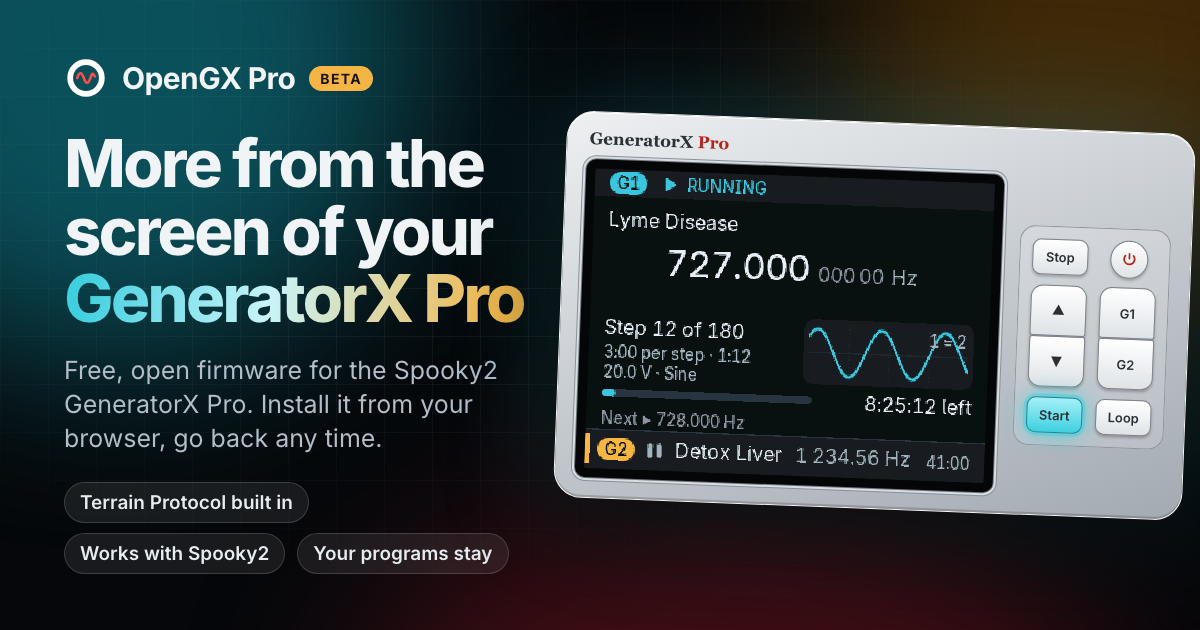
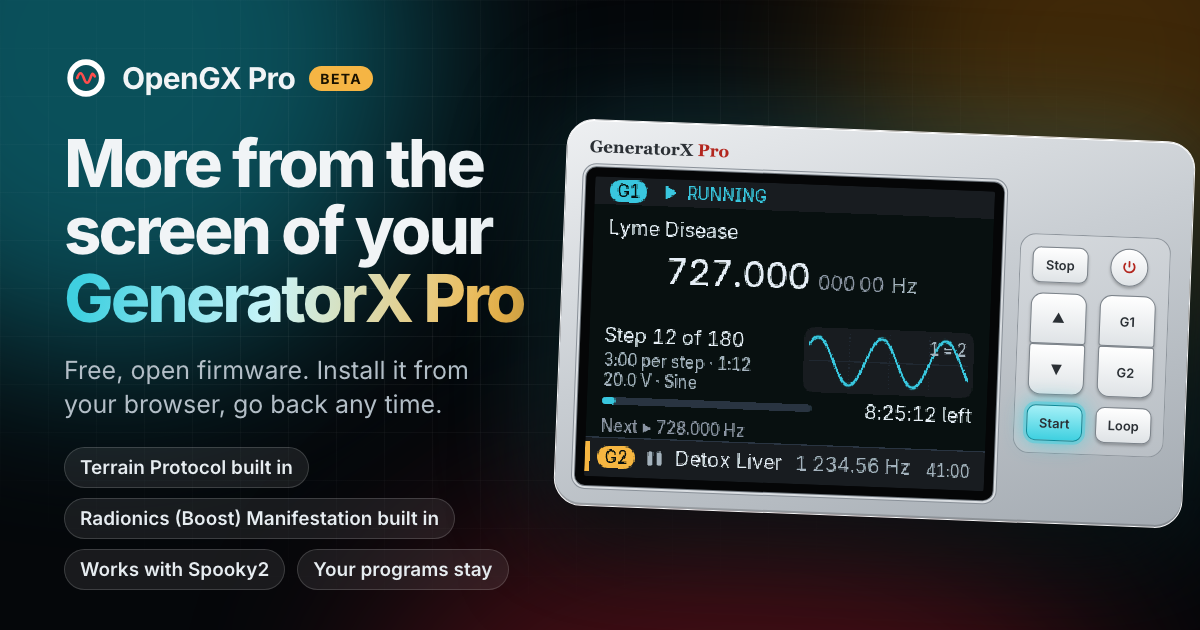
site: "Radionics (Boost) Manifestation" by name, with its own section
The built-in preset was mentioned in passing under the Terrain Protocol. It is now named
in the opening lines, comes third in the rotating features, has its own section with its
two screens, a walk-through in "How to use it", and stands in the share texts and the
share picture.

diff --git a/site/src/components/HomePanel.vue b/site/src/components/HomePanel.vue
@@ -36,8 +36,8 @@ const strip = gallery.flatMap((g) => g.shots).filter((_, i) => i % 3 === 0)
       <a class="pill" href="#/docs/known-issues"><b>Beta 0.9.0</b><span>free and open source</span><i aria-hidden="true">→</i></a>
       <h1>More from the screen of your <span class="grad">GeneratorX Pro</span></h1>
       <p class="hero-lead">OpenGX Pro is free software for the screen and keys of the Spooky2 GeneratorX Pro. It shows more,
-        does more without a computer (the Terrain Protocol is built in), and answers Spooky2 ten times faster. Your programs
-        stay, and you can go back to the original whenever you like.</p>
+        does more without a computer (the Terrain Protocol and “Radionics (Boost) Manifestation” are built in), and
+        answers Spooky2 ten times faster. Your programs stay, and you can go back to the original whenever you like.</p>
       <p class="hero-cta">
         <a class="btn primary big" href="#/install">Install{{ latest ? ` ${latest.version}` : '' }} <span class="sub">3 steps, about 5 minutes</span></a>
         <a class="btn ghost big" href="#/compare">What is different?</a>
@@ -99,7 +99,7 @@ const strip = gallery.flatMap((g) => g.shots).filter((_, i) => i % 3 === 0)
         <p>Set a frequency or a sweep with the keys and play it at once. No computer.</p>
       </article>
       <article class="tile" v-reveal="120">
-        <img :src="screen('chains')" alt="Chains and plans" width="320" height="240" loading="lazy" />
+        <img :src="screen('chains')" alt="The list of chains, below the built-in programs" width="320" height="240" loading="lazy" />
         <h3>Programs in a row</h3>
         <p>Chains play programs one after the other. A plan gives every day its chain.</p>
       </article>
@@ -160,15 +160,33 @@ const strip = gallery.flatMap((g) => g.shots).filter((_, i) => i % 3 === 0)
           <li><b>All three flavours:</b> Terrain, Terrain-Mercury and Terrain-Nonviolent, each as Remote and as Contact sets.</li>
           <li><b>It keeps count:</b> the screen shows the day, for example “Day 6/11”, and tells you when a set is finished.</li>
           <li><b>It goes on where it stopped,</b> also after switching off or a power cut.</li>
-          <li><b>A preset with sweeps too:</b> “Radionics (Boost) Manifestation” is built in. Programs uploaded from
-            Spooky2 cannot sweep; this one does.</li>
         </ul>
-        <p class="muted">The frequencies and times of both are taken from Spooky2's presets.</p>
+        <p class="muted">The frequencies, times and names are taken from Spooky2's presets.</p>
       </div>
       <div class="terrain-shots" v-reveal="120">
         <figure><img :src="screen('chains_terrain')" alt="Terrain first in the list of chains" width="320" height="240" loading="lazy" /><figcaption>First in the list</figcaption></figure>
         <figure><img :src="screen('terrain_contact')" alt="Terrain, Contact, day 3 of 11" width="320" height="240" loading="lazy" /><figcaption>Day 3 of 11, session 2 of 2</figcaption></figure>
         <figure><img :src="screen('dash_terrain')" alt="Terrain running" width="320" height="240" loading="lazy" /><figcaption>Running: “Day 6/11”</figcaption></figure>
+      </div>
+    </div>
+    <div class="wrap terrain-grid flip">
+      <div v-reveal>
+        <span class="eyebrow">Built in</span>
+        <h2>“Radionics (Boost) Manifestation” plays without a computer</h2>
+        <p class="lead">Spooky2's preset is in the unit, with its sweeps. Open Menu → Chains, go down to its row below the
+          Terrain Protocol and press START.</p>
+        <ul>
+          <li><b>With its sweeps:</b> 18 steps of 11 seconds. The frequency on the screen follows each sweep.</li>
+          <li><b>It repeats until you stop it.</b> START pauses and plays on; a sweep goes on where it was.</li>
+          <li><b>On G1 or G2:</b> choose the generator before you start.</li>
+          <li><b>Why it is built in:</b> programs uploaded from Spooky2 cannot sweep. This one does.</li>
+        </ul>
+        <p class="muted">Taken from Spooky2's preset of that name. It is new and still to be confirmed on real units:
+          <a :href="FEEDBACK_URL" target="_blank" rel="noopener">tell us</a> how it plays on yours.</p>
+      </div>
+      <div class="terrain-shots two" v-reveal="120">
+        <figure><img :src="screen('chains_preset')" alt="Radionics (Boost) Manifestation in the list, below the Terrain Protocol" width="320" height="240" loading="lazy" /><figcaption>Below the Terrain Protocol</figcaption></figure>
+        <figure><img :src="screen('dash_preset')" alt="Radionics (Boost) Manifestation playing a sweep" width="320" height="240" loading="lazy" /><figcaption>In a sweep: step 4 of 18</figcaption></figure>
       </div>
     </div>
   </section>
@@ -235,7 +253,7 @@ const strip = gallery.flatMap((g) => g.shots).filter((_, i) => i % 3 === 0)
         <li><b>Install</b> and look at the start screen: does it say OpenGX Pro?</li>
         <li><b>Play a stored program</b> on G1 and one on G2.</li>
         <li><b>Connect Spooky2</b> and run a preset as you always do.</li>
-        <li><b>Try something new:</b> the Terrain Protocol, the manual generator, a chain.</li>
+        <li><b>Try something new:</b> the Terrain Protocol, “Radionics (Boost) Manifestation”, the manual generator, a chain.</li>
         <li><b>Go back</b> to the original once, so you know the way.</li>
       </ol>
     </div>

diff --git a/site/index.html b/site/index.html
@@ -4,7 +4,7 @@
     <meta charset="UTF-8" />
     <meta name="viewport" content="width=device-width, initial-scale=1.0" />
     <title>OpenGX Pro: free, open firmware for the Spooky2 GeneratorX Pro</title>
-    <meta name="description" content="More from the screen of your GeneratorX Pro: see what is playing, run programs, chains and the Terrain Protocol without a computer, and keep using Spooky2 as before. Free and open source. Install it from your browser, go back to the original any time." />
+    <meta name="description" content="More from the screen of your GeneratorX Pro: see what is playing, run programs, chains, the Terrain Protocol and Radionics (Boost) Manifestation without a computer, and keep using Spooky2 as before. Free and open source. Install it from your browser, go back to the original any time." />
     <link rel="canonical" href="https://polobase.github.io/opengx-pro/" />
     <meta name="color-scheme" content="light dark" />
     <meta name="theme-color" content="#05070a" />
@@ -16,7 +16,7 @@
     <meta property="og:site_name" content="OpenGX Pro" />
     <meta property="og:url" content="https://polobase.github.io/opengx-pro/" />
     <meta property="og:title" content="OpenGX Pro: more from the screen of your GeneratorX Pro" />
-    <meta property="og:description" content="Free, open firmware for the Spooky2 GeneratorX Pro. Terrain Protocol built in, works with Spooky2 as before, your programs stay. Install it from your browser, go back any time. Beta testers welcome." />
+    <meta property="og:description" content="Free, open firmware for the Spooky2 GeneratorX Pro. Terrain Protocol and Radionics (Boost) Manifestation built in, works with Spooky2 as before, your programs stay. Install it from your browser, go back any time. Beta testers welcome." />
     <meta property="og:image" content="https://polobase.github.io/opengx-pro/og.png" />
     <meta property="og:image:type" content="image/png" />
     <meta property="og:image:width" content="1200" />
@@ -25,7 +25,7 @@
     <meta property="og:locale" content="en_GB" />
     <meta name="twitter:card" content="summary_large_image" />
     <meta name="twitter:title" content="OpenGX Pro: more from the screen of your GeneratorX Pro" />
-    <meta name="twitter:description" content="Free, open firmware for the Spooky2 GeneratorX Pro. Terrain Protocol built in, works with Spooky2 as before. Install from your browser, go back any time." />
+    <meta name="twitter:description" content="Free, open firmware for the Spooky2 GeneratorX Pro. Terrain Protocol and Radionics (Boost) Manifestation built in. Works with Spooky2 as before." />
     <meta name="twitter:image" content="https://polobase.github.io/opengx-pro/og.png" />
 
     <script type="application/ld+json">

diff --git a/site/src/components/HeroShowcase.vue b/site/src/components/HeroShowcase.vue
@@ -6,14 +6,14 @@ import UnitMock from './UnitMock.vue'
 /** What the firmware can do, one thing at a time, each with its real screen. Rotates by itself; a click chooses. */
 const features = [
   { id: 'now', title: 'See what is playing', text: 'The frequency, step 12 of 180, the time left, the next frequency and the waveform: all on one screen.', shot: 'dash_running', keys: ['START'] },
+  { id: 'terrain', title: 'Terrain Protocol built in', text: 'Start it on the unit: it runs the sets by itself, counts the days and goes on where it stopped.', shot: 'dash_terrain', keys: ['START'] },
+  { id: 'preset', title: 'Radionics (Boost) Manifestation built in', text: 'Spooky2’s preset plays on the unit alone, with its sweeps. No computer needed.', shot: 'dash_preset', keys: ['START'] },
   { id: 'menu', title: 'A menu on the unit', text: 'Programs, chains, the manual generator, timers and settings. Press DOWN.', shot: 'menu', keys: ['DOWN'] },
   { id: 'manual', title: 'Set a frequency by hand', text: 'The manual generator plays a frequency or a sweep at once. No computer needed.', shot: 'manual_sweep', keys: ['G1', 'G2'] },
   { id: 'chains', title: 'Programs in a row', text: 'Chains play several programs one after the other. Plans give every day its chain.', shot: 'chains', keys: ['START', 'LOOP'] },
   { id: 'resume', title: 'Picks up after a power cut', text: 'The unit remembers where it was and offers to go on.', shot: 'resume_offer', keys: ['START', 'STOP'] },
   { id: 'pc', title: 'Spooky2, in view', text: 'In PC mode the screen shows what Spooky2 plays on every output, and answers it ten times faster.', shot: 'pc_monitor_info', keys: [] },
   { id: 'night', title: 'Easy on the eyes', text: 'Themes and brightness. The screen dims by itself; the night view keeps both generators in sight.', shot: 'night_view', keys: ['UP'] },
-  { id: 'terrain', title: 'Terrain Protocol built in', text: 'Start it on the unit: it runs the sets by itself, counts the days and goes on where it stopped.', shot: 'dash_terrain', keys: ['START'] },
-  { id: 'preset', title: 'A preset with sweeps, without a PC', text: 'Spooky2’s “Radionics (Boost) Manifestation” is built in and plays with its sweeps on the unit alone.', shot: 'dash_preset', keys: ['START'] },
 ]
 const STEP_MS = 5200
 

diff --git a/site/src/lib/howto.ts b/site/src/lib/howto.ts
@@ -99,6 +99,18 @@ export const topics: Topic[] = [
     ],
   },
   {
+    id: 'radionics',
+    title: 'Radionics (Boost) Manifestation',
+    steps: [
+      { keys: ['DOWN'], shot: 'chains_terrain', does: 'Menu, then Chains', see: 'The built-in programs stand first: the six rows of the Terrain Protocol, then “Radionics (Boost) Manifestation”.' },
+      { keys: ['DOWN'], shot: 'chains_preset', does: '▼ down to its row', see: 'It is the row below the Terrain Protocol.' },
+      { keys: ['G1', 'G2'], shot: 'chains_preset', does: 'G1 or G2 choose the generator', see: 'The badge at the top right shows where it will play.' },
+      { keys: ['START'], shot: 'dash_preset', does: 'Press Start', see: 'After about two seconds it plays. The frequency follows the sweep, and the screen shows the step, here “Step 4 of 18”.' },
+      { keys: ['START'], shot: 'dash_preset', does: 'Start pauses and plays on', see: 'A sweep goes on where it was. The preset repeats until you stop it.' },
+      { keys: ['STOP'], shot: 'dash_preset', does: 'Stop ends it', see: 'After that, Start plays it once from the start, and Loop plays it with repeat.' },
+    ],
+  },
+  {
     id: 'timers',
     title: 'Timers and power cuts',
     steps: [

diff --git a/site/src/lib/matrix.ts b/site/src/lib/matrix.ts
@@ -75,7 +75,7 @@ export const groups: Group[] = [
       { feature: 'Switch off when all programs have finished', original: false, ours: true },
       { feature: 'Start the last programs at power-on', original: false, ours: true },
       { feature: 'Terrain Protocol built in', note: 'Terrain, Terrain-Mercury and Terrain-Nonviolent, as Remote and as Contact sets. The unit counts the days and goes on where it stopped.', original: false, ours: true, glance: true },
-      { feature: 'A Spooky2 preset with sweeps built in', note: '“Radionics (Boost) Manifestation”. Programs uploaded from Spooky2 cannot sweep; this one can.', original: false, ours: true, glance: true },
+      { feature: '“Radionics (Boost) Manifestation” built in', note: 'Spooky2’s preset, with its sweeps, without a PC. Programs uploaded from Spooky2 cannot sweep; this one can.', original: false, ours: true, glance: true },
       { feature: 'Resume after a power cut', note: 'The unit offers to continue where it stopped.', original: false, ours: true, glance: true },
       { feature: 'Copy, move or erase a program on the unit', original: false, ours: true },
       { feature: 'Play one program on both generators', original: false, ours: true },

diff --git a/site/src/components/FaqList.vue b/site/src/components/FaqList.vue
@@ -41,9 +41,9 @@ import { VENDOR_DOWNLOADS_URL } from '../lib/links'
         and what was not.</p>
     </details>
     <details>
-      <summary>Is the Terrain Protocol in it?</summary>
-      <p>Yes. The Terrain Protocol (Terrain, Terrain-Mercury and Terrain-Nonviolent, as Remote and as Contact sets) and
-        the preset “Radionics (Boost) Manifestation” are built in. You find them first in the list under Menu → Chains
+      <summary>Are the Terrain Protocol and “Radionics (Boost) Manifestation” in it?</summary>
+      <p>Yes, both are built in: the Terrain Protocol (Terrain, Terrain-Mercury and Terrain-Nonviolent, as Remote and as
+        Contact sets) and the preset “Radionics (Boost) Manifestation” with its sweeps. You find them first in the list under Menu → Chains
         and start them with START, without a computer. Their frequencies and times are taken from Spooky2's presets.</p>
     </details>
     <details>

diff --git a/site/src/lib/screens.ts b/site/src/lib/screens.ts
@@ -117,15 +117,15 @@ export const gallery: ShotGroup[] = [
   },
   {
     id: 'terrain',
-    title: 'Terrain Protocol and the built-in preset',
+    title: 'Terrain Protocol and Radionics (Boost) Manifestation',
     shots: [
       { name: 'chains_terrain', caption: 'Terrain in the list' },
       { name: 'terrain_remote', caption: 'Terrain: Remote sets' },
       { name: 'terrain_contact', caption: 'Terrain: Contact, day 3 of 11' },
       { name: 'dash_terrain', caption: 'Terrain running, day 6/11' },
       { name: 'terrain_alert', caption: 'Terrain: set finished' },
-      { name: 'chains_preset', caption: 'A built-in preset' },
-      { name: 'dash_preset', caption: 'Preset with a sweep' },
+      { name: 'chains_preset', caption: 'Radionics (Boost) Manifestation in the list' },
+      { name: 'dash_preset', caption: 'Radionics (Boost) Manifestation in a sweep' },
     ],
   },
 ]

diff --git a/site/src/style.css b/site/src/style.css
@@ -275,6 +275,9 @@ button:disabled { opacity: 0.45; cursor: not-allowed; }
 .terrain-shots { display: grid; grid-template-columns: repeat(6, 1fr); gap: 14px; }
 .terrain-shots figure { margin: 0; grid-column: span 3; }
 .terrain-shots figure:first-child { grid-column: 2 / span 4; }
+.terrain-shots.two figure, .terrain-shots.two figure:first-child { grid-column: span 3; }
+.terrain-grid + .terrain-grid { margin-top: 72px; }
+@media (min-width: 901px) { .terrain-grid.flip > :first-child { order: 2; } }
 .terrain-shots img { display: block; width: 100%; height: auto; image-rendering: pixelated; border-radius: 10px; background: #000; box-shadow: 0 0 0 1px rgb(0 0 0 / 0.5), var(--shadow-lg); }
 .terrain-shots figcaption { font-size: 13px; color: var(--ink-3); margin-top: 6px; text-align: center; }
 @media (max-width: 900px) { .terrain-grid { grid-template-columns: 1fr; gap: 28px; } }

diff --git a/site/scripts/og.html b/site/scripts/og.html
@@ -54,8 +54,8 @@
         OpenGX Pro <em>beta</em>
       </div>
       <h1>More from the screen of your <span>GeneratorX&nbsp;Pro</span></h1>
-      <p>Free, open firmware for the Spooky2 GeneratorX Pro. Install it from your browser, go back any time.</p>
-      <ul><li>Terrain Protocol built in</li><li>Works with Spooky2</li><li>Your programs stay</li></ul>
+      <p>Free, open firmware. Install it from your browser, go back any time.</p>
+      <ul><li>Terrain Protocol built in</li><li>Radionics (Boost) Manifestation built in</li><li>Works with Spooky2</li><li>Your programs stay</li></ul>
     </div>
     <div class="unit">
       <div class="unit-name">GeneratorX <b>Pro</b></div>

diff --git a/README.md b/README.md
@@ -28,8 +28,8 @@ Spooky2's preset files ([`docs/nx/THIRD_PARTY.md`](docs/nx/THIRD_PARTY.md)).
   a waveform view; themes, brightness, a night view.
 - **Without a PC:** the 30 stored programs as before, plus a manual generator with sweeps, chains
   and multi-day plans, timers, resume after a power cut, copy / move / erase of program slots, a
-  key lock, diagnostics. Built in: the Terrain Protocol and one preset with sweeps, with the
-  frequencies, times and names of Spooky2's presets.
+  key lock, diagnostics. Built in: the Terrain Protocol and the preset "Radionics (Boost)
+  Manifestation" with its sweeps, with the frequencies, times and names of Spooky2's presets.
 - **With Spooky2:** the same serial replies in the same order, answered in about 2 ms instead of
   about 20 ms; a PC monitor that shows what Spooky2 plays.
 - **Open and checked:** every difference to the original is listed in
